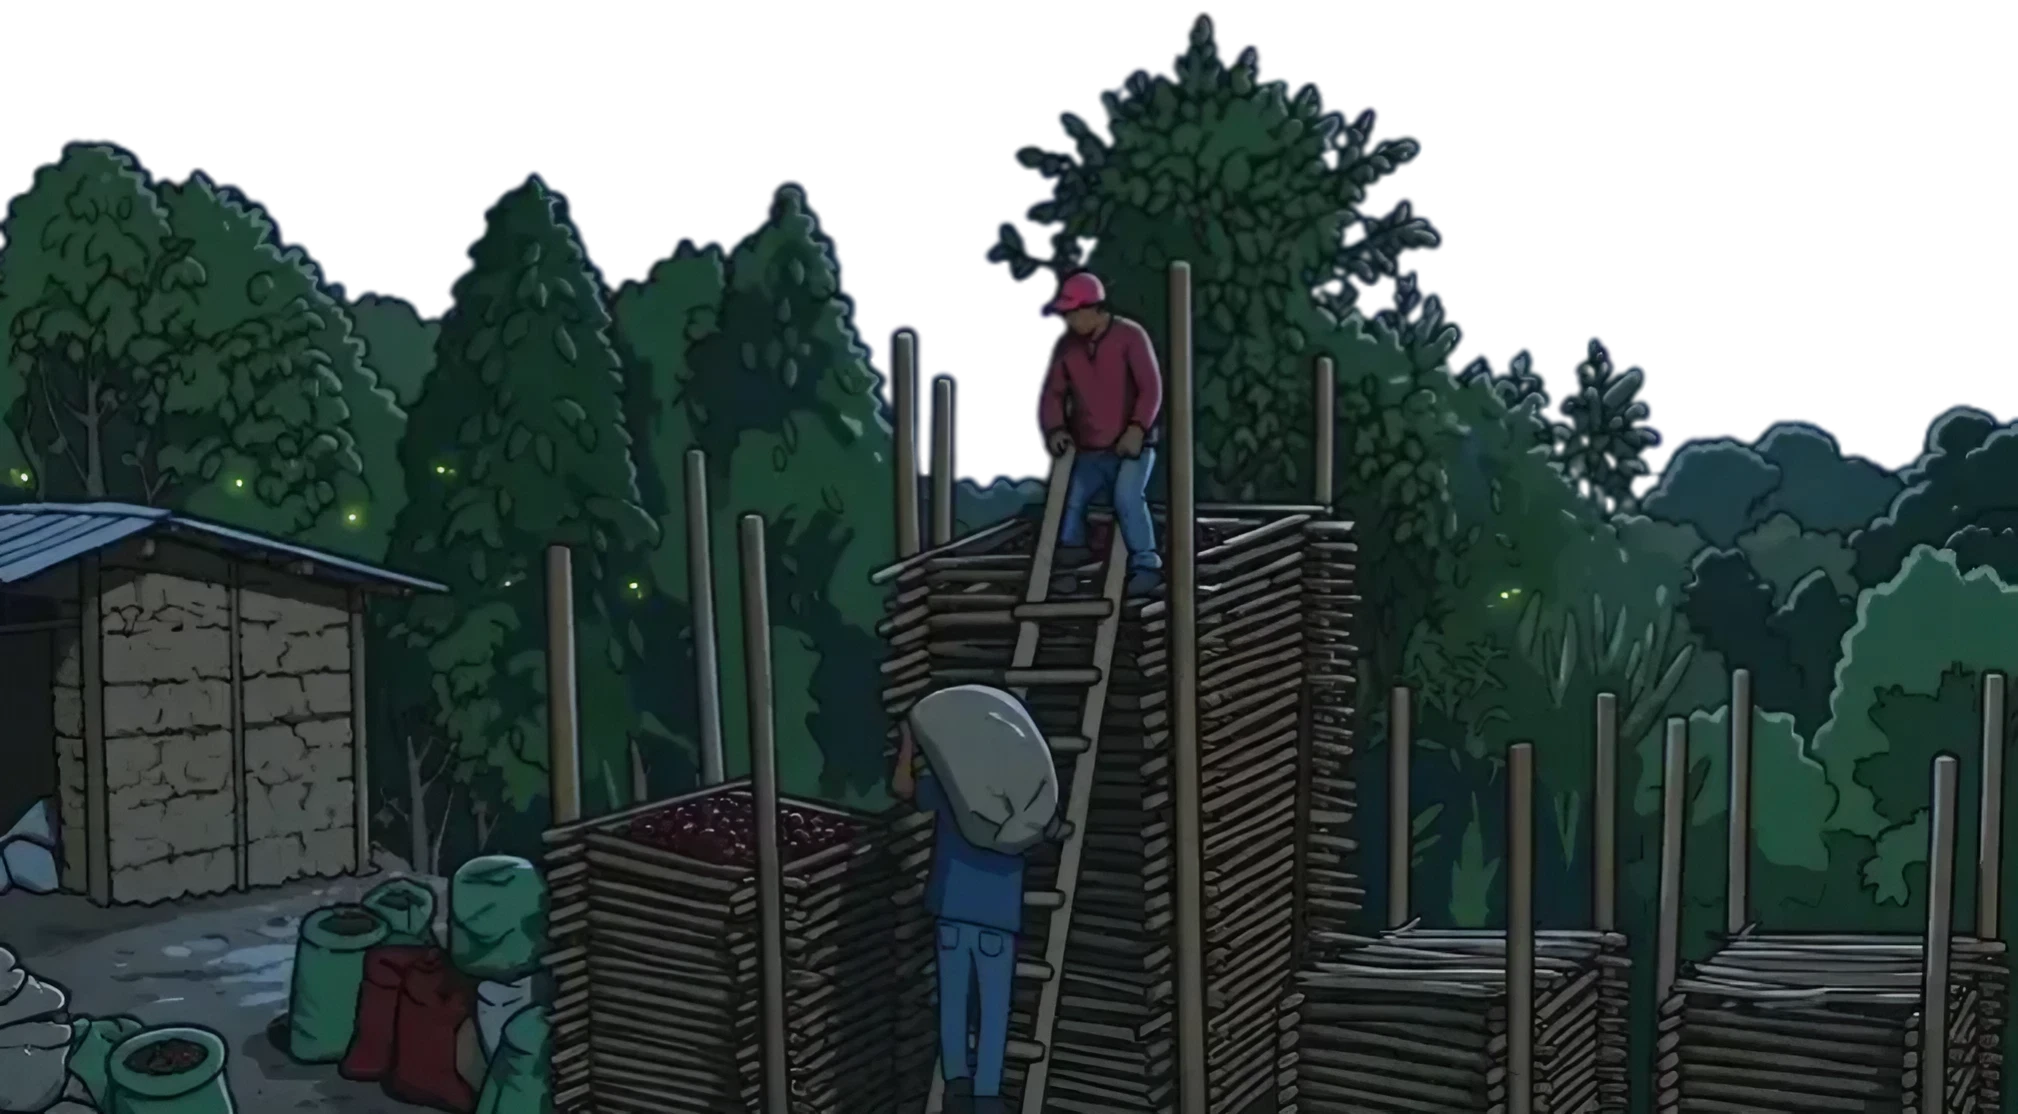
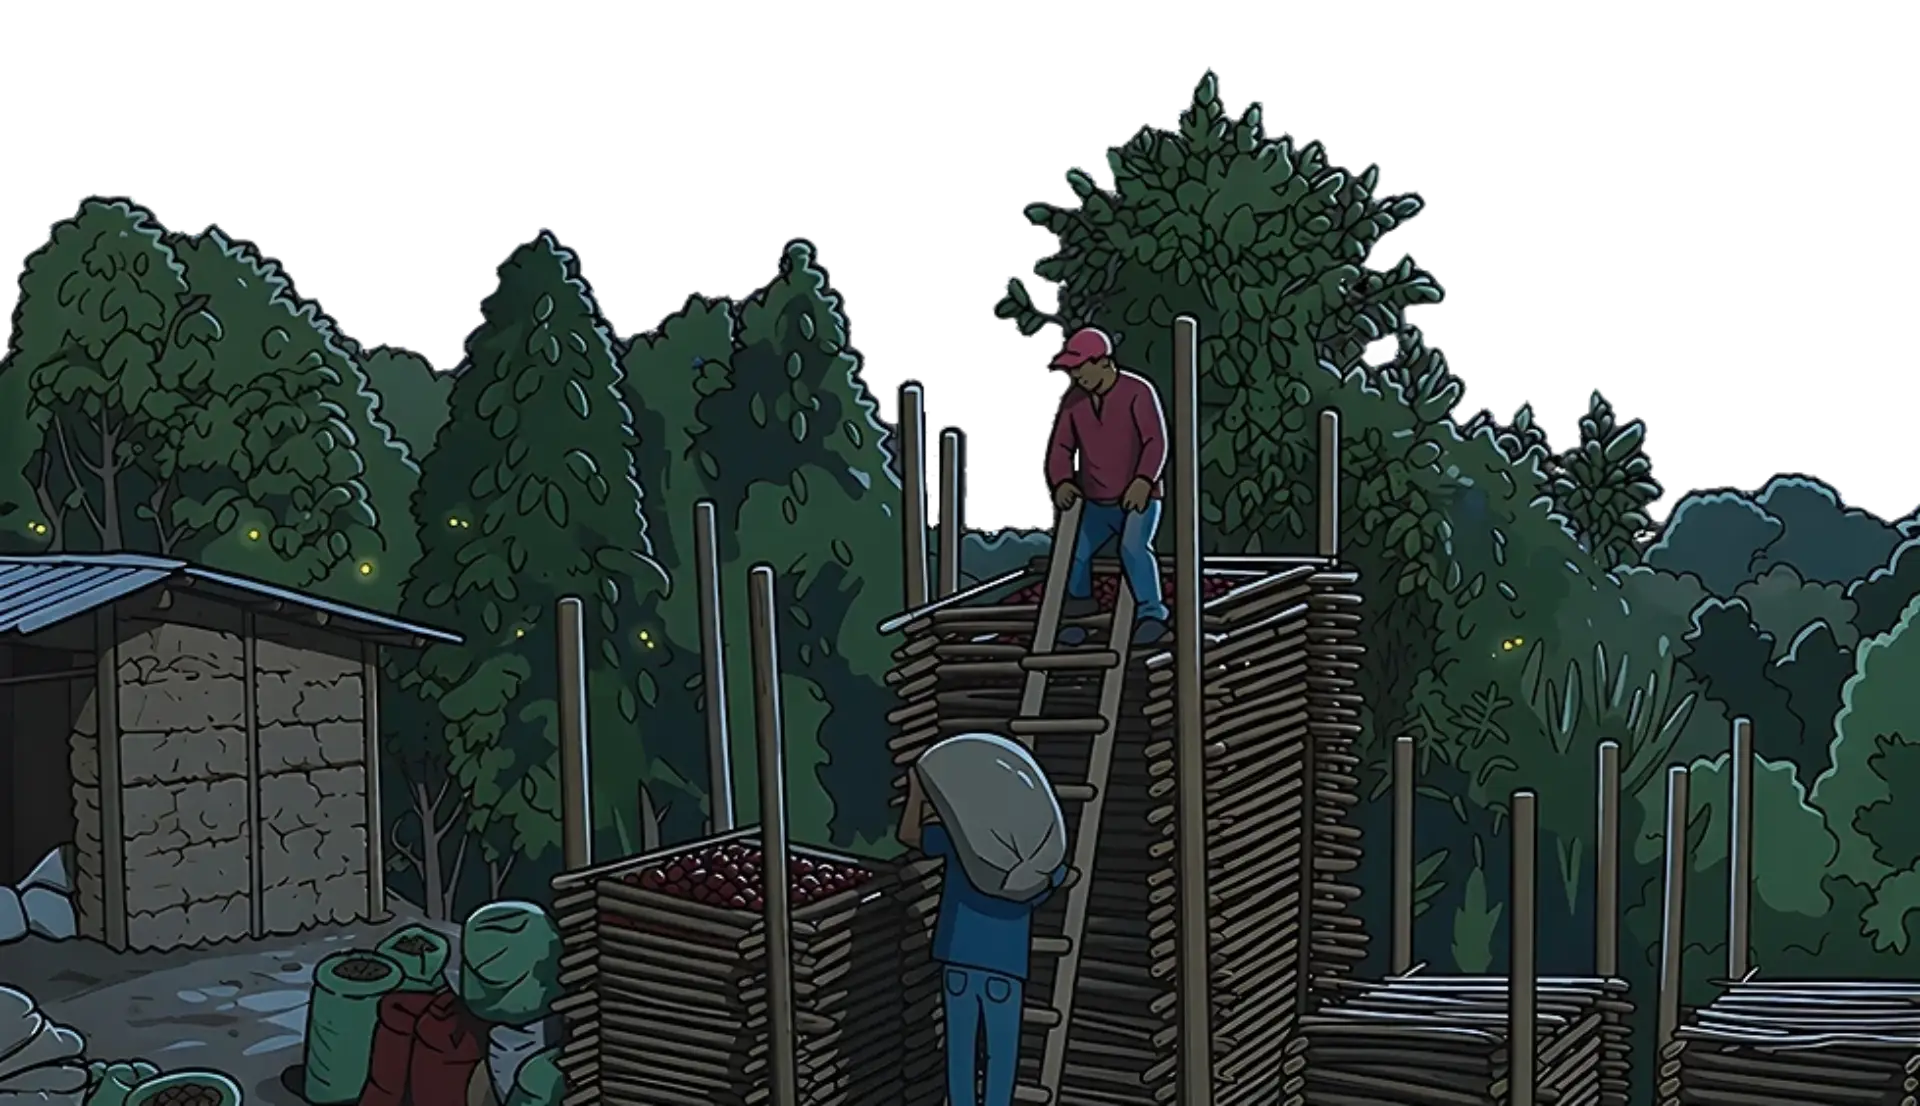
add moon sun toggle theme

diff --git a/components/login/login-background.tsx b/components/login/login-background.tsx
@@ -1,40 +1,121 @@
-"use client"
+"use client";
+
+import Image from "next/image";
+import { useTheme } from "@/components/providers/theme-provider";
+import sunImg from "@/public/assets/backgrounds/sun.webp";
+import moonImg from "@/public/assets/backgrounds/moon.webp";
 
 const stars = [
-  [1, 0.8, 5, 4], [1.5, 0.9, 10, 8], [2, 0.7, 15, 3], [1, 0.6, 8, 15],
-  [1.5, 0.8, 20, 6], [1, 0.9, 25, 12], [2, 0.5, 12, 20], [1, 0.7, 30, 5],
-  [1.5, 0.6, 35, 10], [1, 0.8, 18, 25], [2, 0.9, 40, 8], [1, 0.5, 22, 18],
-  [1.5, 0.7, 28, 3], [1, 0.8, 32, 15], [2, 0.6, 38, 20], [1, 0.9, 14, 10],
-  [1.5, 0.5, 42, 5], [1, 0.7, 6, 28], [2, 0.8, 48, 12], [1, 0.6, 16, 30],
-  [1.5, 0.9, 34, 22], [1, 0.5, 45, 18], [2, 0.7, 50, 25], [1, 0.8, 3, 22],
-  [1.5, 0.6, 24, 32], [1, 0.9, 55, 4], [2, 0.5, 36, 28], [1, 0.7, 40, 35],
-  [1.5, 0.8, 52, 15], [1, 0.6, 58, 8], [2, 0.9, 60, 20], [1, 0.5, 44, 30],
-  [1.5, 0.7, 65, 5], [1, 0.8, 70, 12], [2, 0.6, 75, 8], [1, 0.9, 80, 4],
-  [1.5, 0.5, 85, 15], [1, 0.7, 90, 6], [2, 0.8, 95, 10], [1, 0.6, 5, 50],
-  [1.5, 0.9, 15, 45], [1, 0.5, 25, 55], [2, 0.7, 35, 48], [1, 0.8, 45, 60],
-  [1.5, 0.6, 55, 52], [1, 0.9, 65, 65], [2, 0.5, 75, 58], [1, 0.7, 85, 70],
-  [1.5, 0.8, 20, 70], [1, 0.6, 40, 78], [2, 0.9, 60, 72], [1, 0.5, 80, 80],
-  [1.5, 0.7, 10, 85], [1, 0.8, 30, 88], [2, 0.6, 50, 82], [1, 0.9, 70, 85],
-  [1.5, 0.5, 90, 40], [1, 0.7, 8, 65], [2, 0.8, 38, 40], [1, 0.6, 68, 50],
-  [1.5, 0.9, 82, 35], [1, 0.5, 95, 55], [2, 0.7, 18, 60], [1, 0.8, 72, 42],
-  [1.5, 0.6, 48, 7], [1, 0.9, 3, 35], [2, 0.5, 56, 42], [1, 0.7, 42, 38],
-  [1.5, 0.8, 78, 45], [1, 0.6, 62, 28], [2, 0.9, 88, 22], [1, 0.5, 25, 40],
-]
+  [1, 0.8, 5, 4],
+  [1.5, 0.9, 10, 8],
+  [2, 0.7, 15, 3],
+  [1, 0.6, 8, 15],
+  [1.5, 0.8, 20, 6],
+  [1, 0.9, 25, 12],
+  [2, 0.5, 12, 20],
+  [1, 0.7, 30, 5],
+  [1.5, 0.6, 35, 10],
+  [1, 0.8, 18, 25],
+  [2, 0.9, 40, 8],
+  [1, 0.5, 22, 18],
+  [1.5, 0.7, 28, 3],
+  [1, 0.8, 32, 15],
+  [2, 0.6, 38, 20],
+  [1, 0.9, 14, 10],
+  [1.5, 0.5, 42, 5],
+  [1, 0.7, 6, 28],
+  [2, 0.8, 48, 12],
+  [1, 0.6, 16, 30],
+  [1.5, 0.9, 34, 22],
+  [1, 0.5, 45, 18],
+  [2, 0.7, 50, 25],
+  [1, 0.8, 3, 22],
+  [1.5, 0.6, 24, 32],
+  [1, 0.9, 55, 4],
+  [2, 0.5, 36, 28],
+  [1, 0.7, 40, 35],
+  [1.5, 0.8, 52, 15],
+  [1, 0.6, 58, 8],
+  [2, 0.9, 60, 20],
+  [1, 0.5, 44, 30],
+  [1.5, 0.7, 65, 5],
+  [1, 0.8, 70, 12],
+  [2, 0.6, 75, 8],
+  [1, 0.9, 80, 4],
+  [1.5, 0.5, 85, 15],
+  [1, 0.7, 90, 6],
+  [2, 0.8, 95, 10],
+  [1, 0.6, 5, 50],
+  [1.5, 0.9, 15, 45],
+  [1, 0.5, 25, 55],
+  [2, 0.7, 35, 48],
+  [1, 0.8, 45, 60],
+  [1.5, 0.6, 55, 52],
+  [1, 0.9, 65, 65],
+  [2, 0.5, 75, 58],
+  [1, 0.7, 85, 70],
+  [1.5, 0.8, 20, 70],
+  [1, 0.6, 40, 78],
+  [2, 0.9, 60, 72],
+  [1, 0.5, 80, 80],
+  [1.5, 0.7, 10, 85],
+  [1, 0.8, 30, 88],
+  [2, 0.6, 50, 82],
+  [1, 0.9, 70, 85],
+  [1.5, 0.5, 90, 40],
+  [1, 0.7, 8, 65],
+  [2, 0.8, 38, 40],
+  [1, 0.6, 68, 50],
+  [1.5, 0.9, 82, 35],
+  [1, 0.5, 95, 55],
+  [2, 0.7, 18, 60],
+  [1, 0.8, 72, 42],
+  [1.5, 0.6, 48, 7],
+  [1, 0.9, 3, 35],
+  [2, 0.5, 56, 42],
+  [1, 0.7, 42, 38],
+  [1.5, 0.8, 78, 45],
+  [1, 0.6, 62, 28],
+  [2, 0.9, 88, 22],
+  [1, 0.5, 25, 40],
+];
 
 export function LoginBackground() {
+  const { resolvedTheme, setTheme } = useTheme();
+  const isDark = resolvedTheme === "dark";
+  const toggleTheme = () => setTheme(isDark ? "light" : "dark");
+
   const starGradients = stars
     .map(
       ([size, opacity, left, top]) =>
         `radial-gradient(${size}px ${size}px at ${left}% ${top}%, rgba(255,255,255,${opacity}), transparent)`,
     )
-    .join(",")
+    .join(",");
 
   return (
-    <div className="absolute inset-0 z-0 bg-gradient-to-b from-[#4fc3f7] to-[#fff] dark:from-[#0f0c29] dark:to-[#302b63]">
+    <>
+      <div className="absolute inset-0 z-0 bg-gradient-to-b from-[#4fc3f7] to-[#fff] dark:from-[#0f0c29] dark:to-[#302b63]">
+        <div
+          className="absolute inset-0 opacity-0 dark:opacity-100 transition-opacity duration-700"
+          style={{ backgroundImage: starGradients }}
+        />
+      </div>
       <div
-        className="absolute inset-0 opacity-0 dark:opacity-100 transition-opacity duration-700"
-        style={{ backgroundImage: starGradients }}
+        className="absolute top-4 right-24 size-56 rounded-full blur-[80px] pointer-events-none select-none z-20"
+        style={{ backgroundColor: isDark ? "rgba(255,255,255,0.5)" : "rgba(255,160,0,0.6)" }}
       />
-    </div>
-  )
+      <button
+        type="button"
+        onClick={toggleTheme}
+        className="absolute top-12 right-32 size-32 cursor-pointer z-30"
+        aria-label={isDark ? "Switch to light mode" : "Switch to dark mode"}
+      >
+        <Image
+          src={isDark ? moonImg : sunImg}
+          alt={isDark ? "Moon" : "Sun"}
+          className="size-full pointer-events-none select-none"
+        />
+      </button>
+    </>
+  );
 }

diff --git a/next-env.d.ts b/next-env.d.ts
@@ -1,6 +1,6 @@
 /// <reference types="next" />
 /// <reference types="next/image-types/global" />
-import "./.next/dev/types/routes.d.ts";
+import "./.next/types/routes.d.ts";
 
 // NOTE: This file should not be edited
 // see https://nextjs.org/docs/app/api-reference/config/typescript for more information.